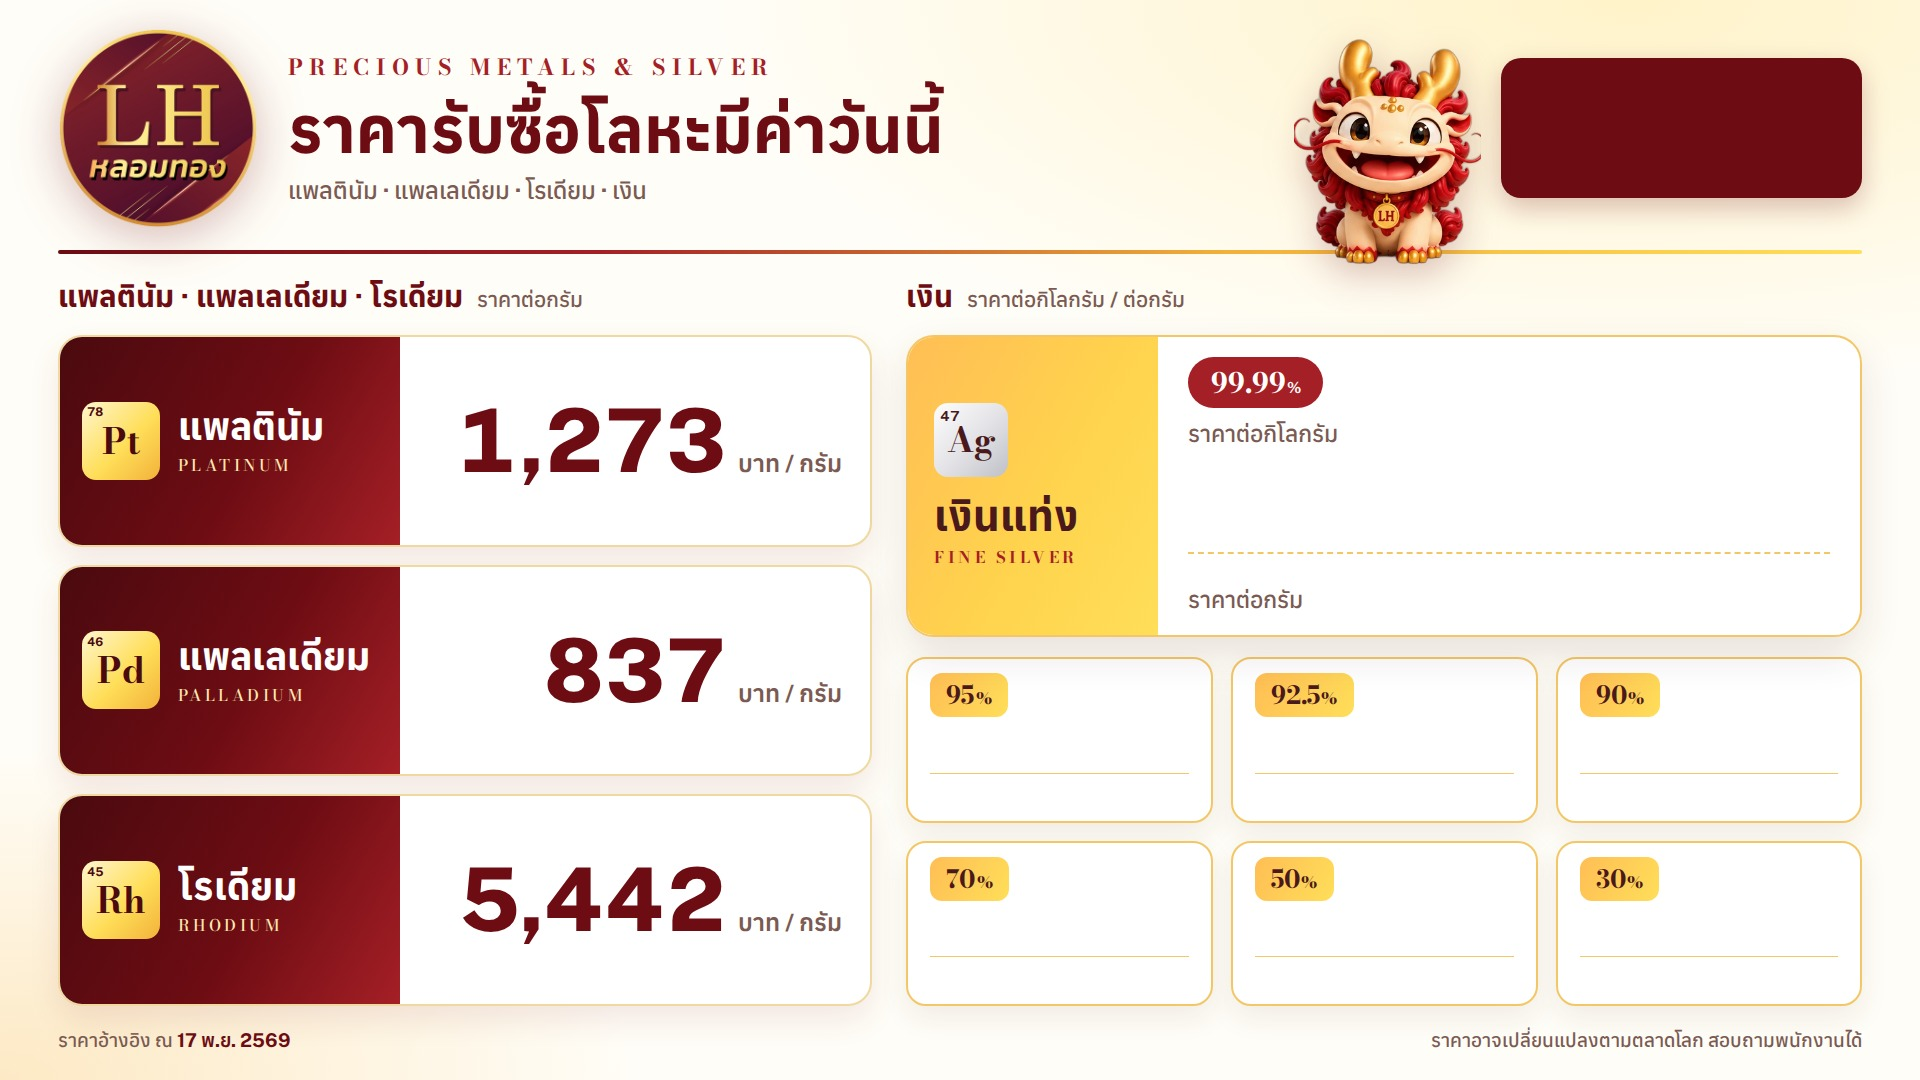
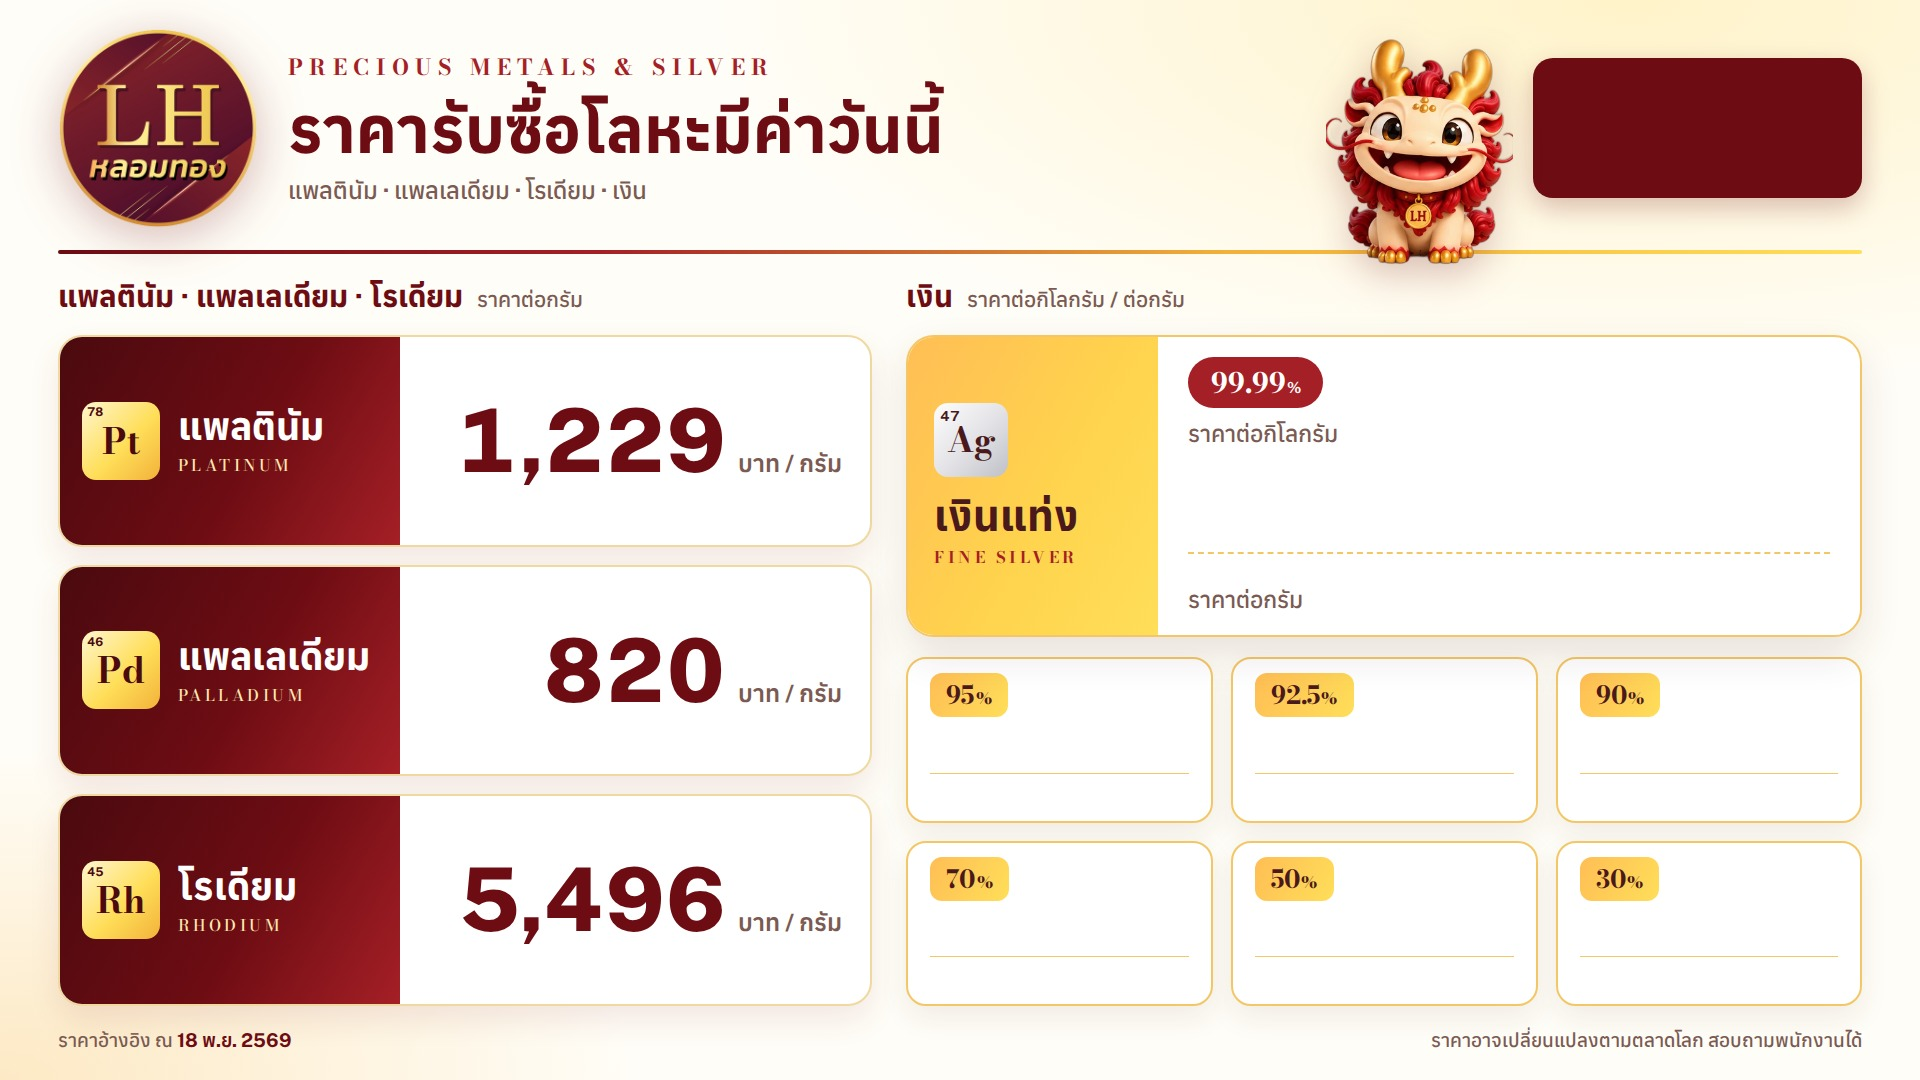
Update prices 2026-11-18

diff --git a/board.html b/board.html
@@ -302,15 +302,15 @@ html{-webkit-text-size-adjust:100%;text-size-adjust:100%}
      ราคาแต่ละเกรด = ราคาเงินหลังหัก × เปอร์เซ็นต์ (99.99% ใช้ราคาเต็ม)
    showSilver = เปิด/ปิดหน้าราคาเงิน, rotateSeconds = เปลี่ยนหน้าทุกกี่วินาที */
 const CONFIG = {
-  asOf: "17 พ.ย. 2569",
-  fx: 33.89,
+  asOf: "18 พ.ย. 2569",
+  fx: 33.82,
   discount: 0.20,
   rotateSeconds: 15,
   showSilver: true,
   metals: [
-    { th:"แพลตินัม",  en:"Platinum",  sym:"Pt", z:78, usdPerGram:46.9401 },
-    { th:"แพลเลเดียม", en:"Palladium", sym:"Pd", z:46, usdPerGram:30.8647 },
-    { th:"โรเดียม",    en:"Rhodium",   sym:"Rh", z:45, usdPerGram:267.65, discount:0.40 }
+    { th:"แพลตินัม",  en:"Platinum",  sym:"Pt", z:78, usdPerGram:45.429 },
+    { th:"แพลเลเดียม", en:"Palladium", sym:"Pd", z:46, usdPerGram:30.3181 },
+    { th:"โรเดียม",    en:"Rhodium",   sym:"Rh", z:45, usdPerGram:270.87, discount:0.40 }
   ],
   silver: { pricePerKg: 55000, grades: [95, 92.5, 90, 70, 50, 30] }
 };
